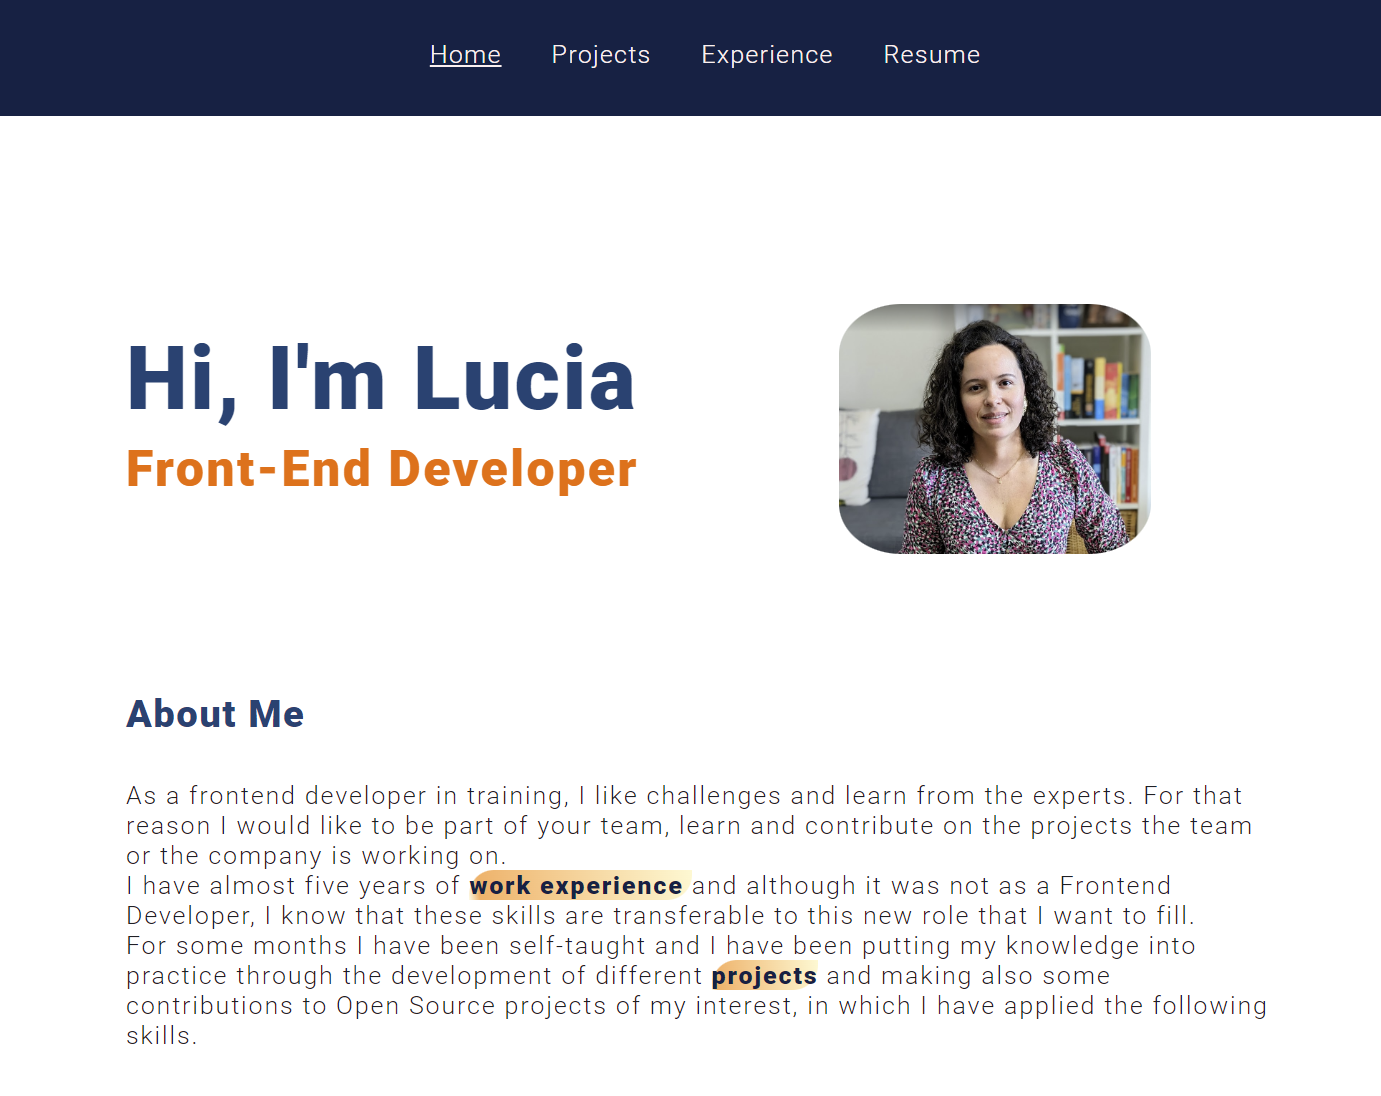
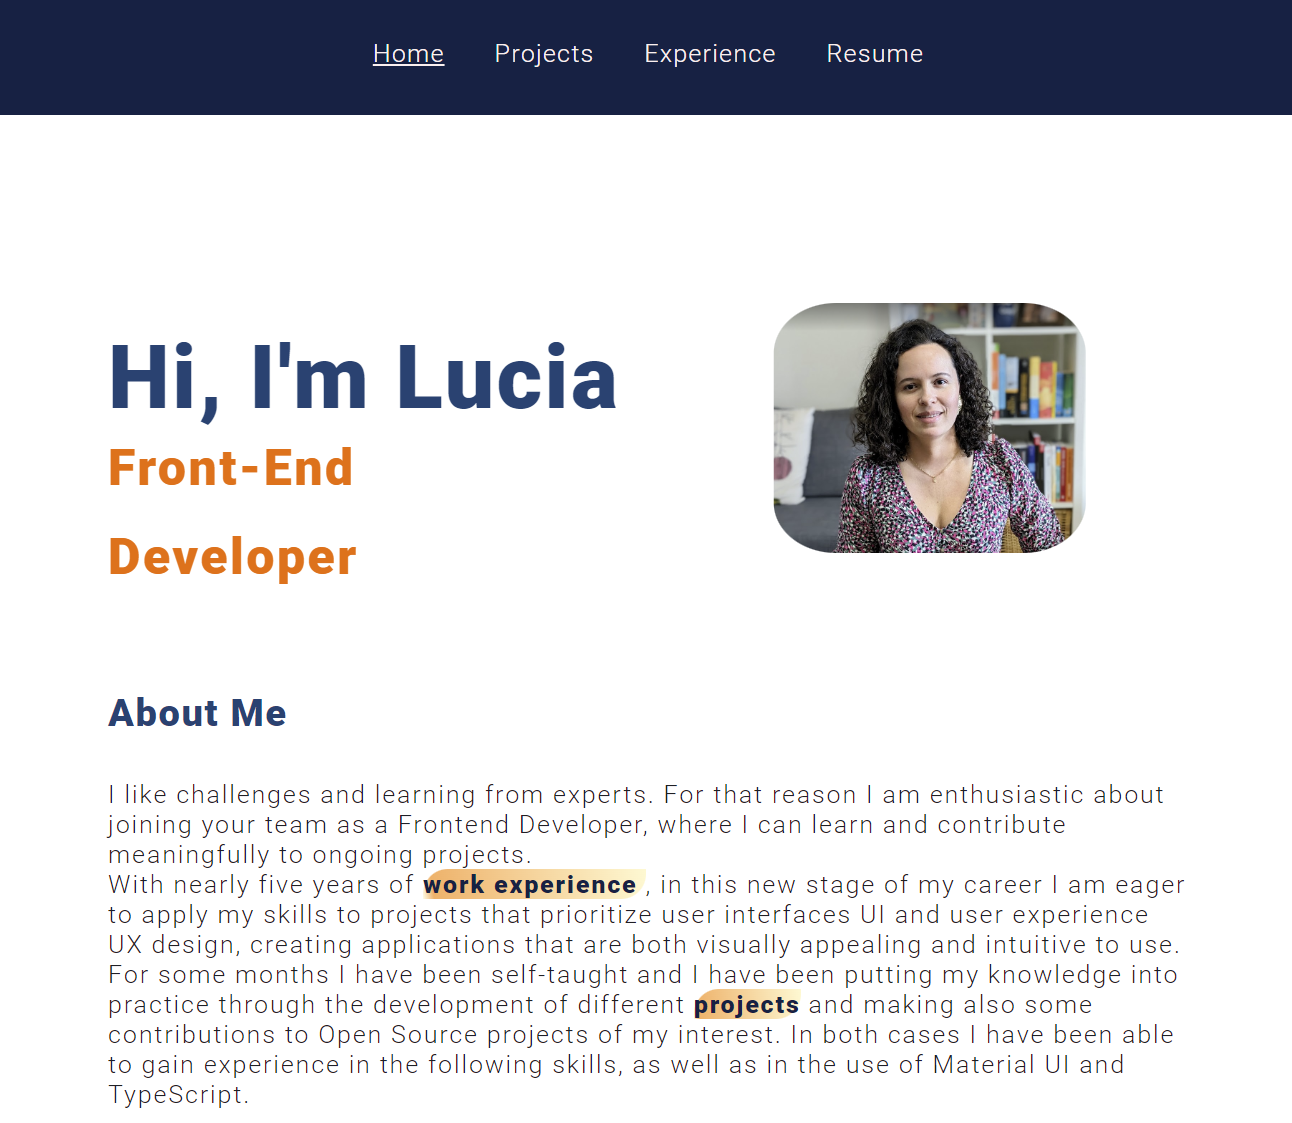
updates

diff --git a/src/pages/Home.jsx b/src/pages/Home.jsx
@@ -30,15 +30,14 @@ function Home() {
 
       <div className="about-text">
         <h2>About Me</h2>  
-        <p>As a frontend developer in training, I like challenges and learn from the experts. 
-           For that reason I would like to be part of your team, learn and contribute on the projects
-           the team is working on. <br/>
-           I have almost five years of <Link to="/experience" className="project-experience"> work experience </Link> and although it was not as a Frontend Developer, I know
-           that these skills are transferable to this new role that I want to fill.<br/>
+        <p>I like challenges and learning from experts. For that reason I am enthusiastic about joining your team as a Frontend Developer, where I can learn and contribute 
+           meaningfully to ongoing projects. <br/>
+           With nearly five years of <Link to="/experience" className="project-experience"> work experience </Link>, in this new stage of my career I am eager to apply my skills
+           to projects that prioritize user interfaces UI and user experience UX design, creating applications that are both visually appealing and intuitive to use.<br/>
            For some months I have been self-taught and I have been putting my knowledge into practice through the 
            development of different <Link to="/projects" className="project-link"> projects</Link> and making also some contributions to Open Source projects of my interest. 
            In both cases I have been able to gain experience in the following skills, as well as in the use of Material UI and TypeScript.
-        </p>  
+        </p> 
       </div>
       
       <div className="home-skills">

diff --git a/src/helpers/ProjectList.jsx b/src/helpers/ProjectList.jsx
@@ -33,7 +33,7 @@ export const ProjectList = [
     description: 
     "My portfolio was created for two purposes. The first was to show through practice what I have learned so far and secondly, to increase my knowledge of React among other skills, including some animations using framer-motion.",
     image: Proj4,
-    urlDemo:"https://luportfolio.netlify.app",
+    urlDemo:"https://my-portfolio-197f3.web.app/",
     urlCodeView:"https://github.com/luquiceno/Portfolio-React",
     skills: ["React", "HTML", "CSS", "Responsive Design", "JavaScript", "Framer-motion", "GitHub", "Material UI" ],
   },
